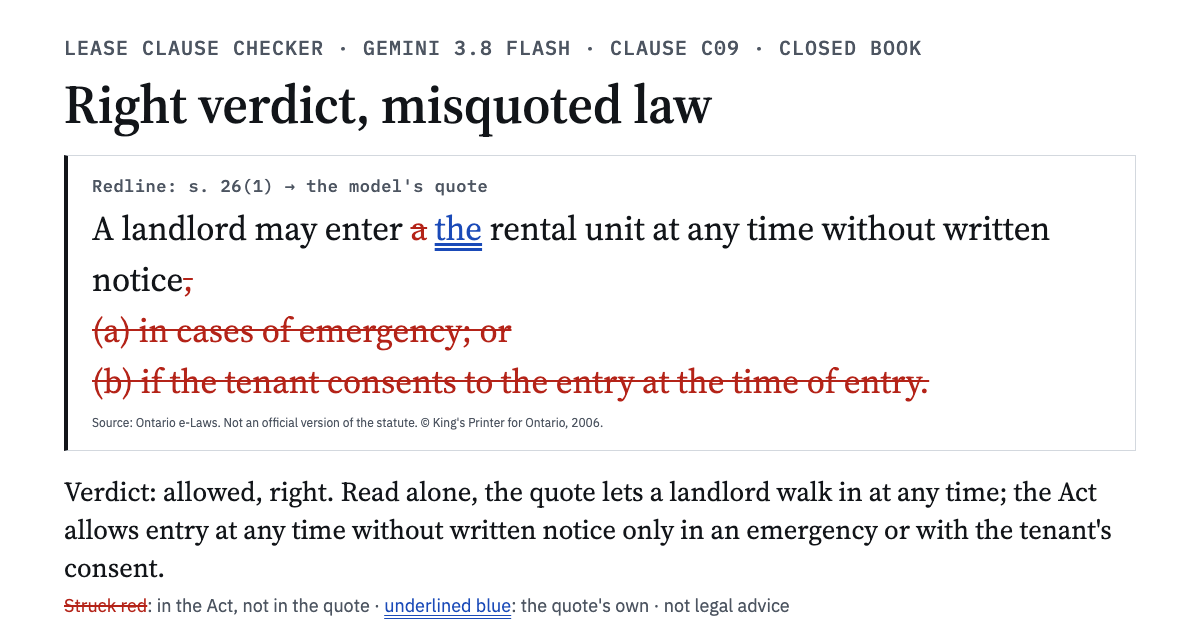
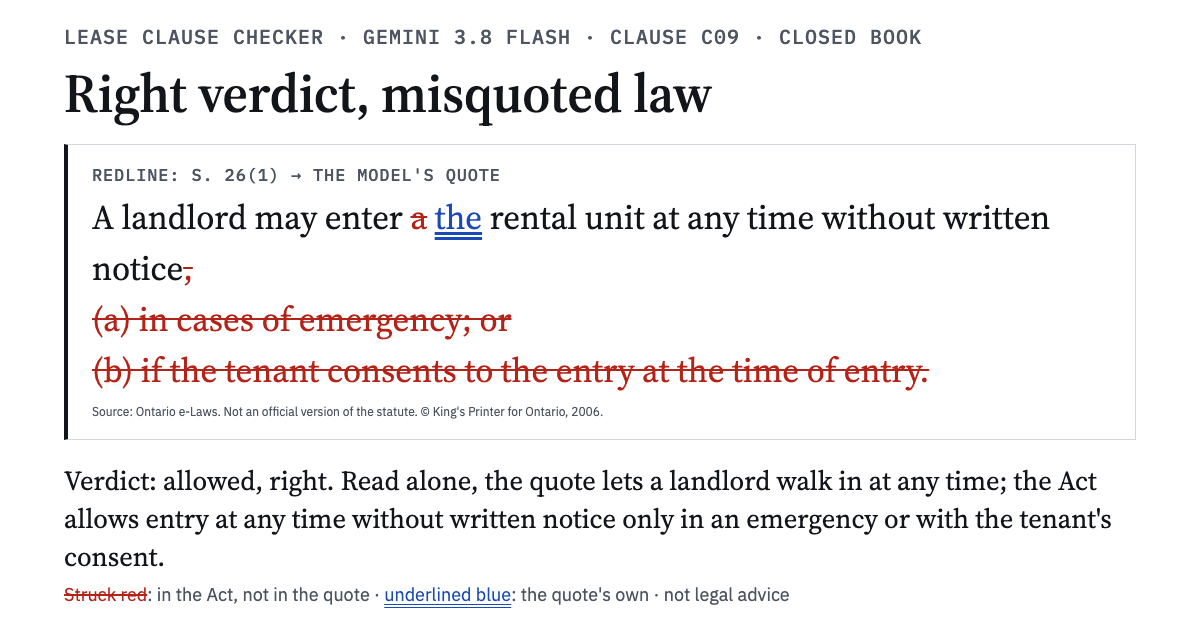
Fix the explorer's design-review findings
- The lead exhibit sits beside its clause on wide screens and the story
  view's title is smaller, so the c09 punchline is on a 1440x790 laptop's
  first screen; the two cards share rows, so their Act boxes start level.
- Folds fade, then the quote box animates to its new height, so the page
  no longer jumps word by word; exhibits that come into view together play
  one after the other.
- The status line shows a long drop's first and last words, with the full
  text for screen readers; the space before an added word isn't underlined.
- A note under the exhibits says they are 3 of the 10 quotes the hand check
  found would mislead (with the split by model), chosen by the author, and
  that the edits are computed from the diff; legend and notice once there.
- 44-pixel tap targets on phones, tab-strip fades on both edges, the title
  as a quiet line on the other views, the hand check's intro before its
  method, a visible tag on c26's item (b) in dark mode, and og.png
  re-centred.

diff --git a/src/lease_clause_checker/explorer_assets/explorer.css b/src/lease_clause_checker/explorer_assets/explorer.css
@@ -14,7 +14,6 @@
   --insert-wash: #e8eefb;
   --ok: #17663a;
   --track: #e3e6ea;
-  --tag-wash: #eef0f3;
 
   --serif: "Source Serif 4", "Source Serif Pro", Georgia, "Times New Roman", serif;
   --sans: "IBM Plex Sans", system-ui, -apple-system, "Segoe UI", Roboto, Arial, sans-serif;
@@ -27,13 +26,13 @@
   :root:not([data-theme="light"]) {
     --paper: #0e1114; --sheet: #171b20; --ink: #e8eaed; --graphite: #a7afba; --rule: #2d343d;
     --strike: #ff8e84; --strike-wash: #3a1d1b; --insert: #93b4ff; --insert-wash: #1a2540;
-    --ok: #74d39c; --track: #2a3038; --tag-wash: #222830;
+    --ok: #74d39c; --track: #2a3038;
   }
 }
 :root[data-theme="dark"] {
   --paper: #0e1114; --sheet: #171b20; --ink: #e8eaed; --graphite: #a7afba; --rule: #2d343d;
   --strike: #ff8e84; --strike-wash: #3a1d1b; --insert: #93b4ff; --insert-wash: #1a2540;
-  --ok: #74d39c; --track: #2a3038; --tag-wash: #222830;
+  --ok: #74d39c; --track: #2a3038;
 }
 
 * { box-sizing: border-box; }
@@ -68,6 +67,7 @@ main:focus { outline: none; }
   .brand { min-height: 48px; }
   .tabs { padding-right: var(--s5); }
   .tabs.overflows { mask-image: linear-gradient(to right, #000 85%, transparent); }
+  .tabs.overflows.scrolled { mask-image: linear-gradient(to right, transparent, #000 32px, #000 85%, transparent); }
   .tabs a { min-height: 44px; }
 }
 .notice-bar { border-bottom: 1px solid var(--rule); font-size: 13px; color: var(--graphite); }
@@ -78,14 +78,19 @@ main:focus { outline: none; }
 .hero { padding-top: var(--s6); padding-bottom: var(--s5); }
 h1 { margin: 0; font: 600 clamp(38px, 5.4vw, 60px)/1.04 var(--serif); letter-spacing: -0.015em; }
 .lede { margin: var(--s3) 0 0; max-width: 72ch; font-size: 18px; line-height: 1.55; color: var(--graphite); }
-body:not([data-view="story"]) .hero { padding-top: var(--s5); padding-bottom: var(--s2); }
-body:not([data-view="story"]) .hero h1 { font-size: 30px; }
+body[data-view="story"] .hero { padding-top: var(--s5); padding-bottom: var(--s4); }
+body[data-view="story"] h1 { font-size: clamp(36px, 4.2vw, 54px); }
+/* On the other views the title is a quiet line, so the view's own heading leads. */
+body:not([data-view="story"]) .hero { padding-top: var(--s4); padding-bottom: 0; }
+body:not([data-view="story"]) .hero h1 { font: 500 12px/1.4 var(--mono); letter-spacing: 0.06em; text-transform: uppercase; color: var(--graphite); }
 body:not([data-view="story"]) .hero .lede, body:not([data-view="story"]) .hero .eyebrow { display: none; }
 @media (max-width: 600px) {
   .hero { padding-top: var(--s5); padding-bottom: var(--s4); }
   .lede { font-size: 16px; }
   .eyebrow { font-size: 11px; }
-  body:not([data-view="story"]) .hero h1 { font-size: 24px; }
+  body[data-view="story"] .hero { padding-top: var(--s4); padding-bottom: var(--s3); }
+  body[data-view="story"] h1 { font-size: 34px; }
+  .lede { font-size: 15px; line-height: 1.5; }
 }
 
 main.wrap { padding-bottom: var(--s7); }
@@ -96,11 +101,20 @@ h3 { margin: var(--s6) 0 var(--s2); font: 600 20px/1.3 var(--serif); }
 .intro { max-width: 72ch; color: var(--graphite); margin: 0 0 var(--s4); }
 
 /* ---- Exhibits: the clause, the Act, what the model quoted, and the punchline ---- */
-.exhibits { display: grid; grid-template-columns: repeat(2, minmax(0, 1fr)); gap: var(--s7) var(--s6); padding: var(--s2) 0 var(--s8); }
+.exhibits { display: grid; grid-template-columns: repeat(2, minmax(0, 1fr)); gap: var(--s7) var(--s6); padding: 0 0 var(--s5); }
 .exhibits > .exhibit.lead { grid-column: 1 / -1; }
-@media (max-width: 980px) { .exhibits { grid-template-columns: 1fr; gap: var(--s7); padding-bottom: var(--s7); } }
 .exhibit { min-width: 0; }
-.exhibit.lead { max-width: 980px; }
+/* The two cards share rows, so their Act boxes start level. */
+.exhibit:not(.lead) { display: grid; grid-row: span 2; grid-template-rows: subgrid; row-gap: 0; }
+@media (max-width: 980px) {
+  .exhibits { grid-template-columns: 1fr; gap: var(--s7); }
+  .exhibit:not(.lead) { display: block; }
+}
+/* The lead exhibit on a wide screen: the clause and verdict beside the Act and the quote. */
+@media (min-width: 1100px) {
+  .exhibit.lead { display: grid; grid-template-columns: minmax(0, 4fr) minmax(0, 7fr); gap: var(--s7); align-items: start; }
+  .exhibit.lead .exhibit-text { padding-top: var(--s2); }
+}
 .exhibit .label { margin-bottom: var(--s2); }
 .exhibit h2 { margin: 0 0 var(--s3); font-size: 22px; }
 .exhibit.lead h2 { font-size: 30px; }
@@ -108,6 +122,7 @@ h3 { margin: var(--s6) 0 var(--s2); font: 600 20px/1.3 var(--serif); }
 .clause { margin: 0 0 var(--s3); padding: var(--s2) 0 var(--s2) var(--s4); border-left: 3px solid var(--ink); font-size: 17px; line-height: 1.5; }
 .exhibit.lead .clause { font-size: 18px; }
 .verdict-line { margin: 0 0 var(--s4); font-size: 15px; }
+.verdict-line .tag { margin-left: 8px; }
 .verdict-line b { font-weight: 600; }
 .tag { display: inline-block; margin-left: 6px; padding: 0 7px; font: 600 11px/1.7 var(--mono); letter-spacing: 0.05em; text-transform: uppercase; border: 1.5px solid currentColor; border-radius: 2px; vertical-align: 1px; white-space: nowrap; }
 .tag.ok { color: var(--ok); }
@@ -117,42 +132,52 @@ h3 { margin: var(--s6) 0 var(--s2); font: 600 20px/1.3 var(--serif); }
 .box + .box { border-top: 0; }
 .box figcaption { display: flex; justify-content: space-between; gap: var(--s3); flex-wrap: wrap; padding: var(--s2) var(--s4); border-bottom: 1px solid var(--rule); font: 500 12px/1.5 var(--mono); letter-spacing: 0.04em; text-transform: uppercase; color: var(--graphite); }
 .box figcaption b { color: var(--ink); font-weight: 500; }
+.box figcaption .heading { font: 400 13px/1.5 var(--sans); letter-spacing: 0; text-transform: none; }
 .box .statute { padding: var(--s3) var(--s4) var(--s4); }
 .box.quote { border-left: 3px solid var(--insert); }
 .box .notice { padding: 0 var(--s4) var(--s3); margin: 0; }
-.statute { margin: 0; font: 400 19px/1.7 var(--serif); overflow-wrap: anywhere; }
+.statute { margin: 0; font: 400 19px/1.6 var(--serif); overflow-wrap: anywhere; }
 .exhibit:not(.lead) .statute { font-size: 17px; }
 @media (max-width: 600px) { .statute, .exhibit:not(.lead) .statute { font-size: 17px; line-height: 1.65; } }
 
 /* In the Act box: the words each edit drops, marked as it drops them, and a tagged item. */
 .act-box .tok { transition: color 0.3s, background-color 0.3s; }
 .act-box .tok.lost { color: var(--strike); background: var(--strike-wash); text-decoration: line-through 1.5px var(--strike); }
-.act-box .tok.tagged { background: var(--tag-wash); }
-.act-box .tok.tagged.lost { background: var(--strike-wash); }
+.act-box .tok.tagged { text-decoration: underline dotted var(--graphite); text-underline-offset: 5px; }
+.act-box .tok.tagged.lost { text-decoration: line-through 1.5px var(--strike); }
 .lost-key { color: var(--strike); background: var(--strike-wash); padding: 0 2px; }
 .item-tag { display: inline-block; margin: 0 6px 0 0; padding: 0 6px; font: 500 11px/1.7 var(--mono); letter-spacing: 0.04em; text-transform: uppercase; color: var(--ink); border: 1px solid var(--ink); border-radius: 2px; vertical-align: 2px; }
 
 /* In the quote box: each edit's dropped words strike through, then fold away; its added words
    type in. */
-.quote-box del, .quote-box ins { transition: font-size 0.45s ease, opacity 0.35s ease, color 0.25s; }
+.quote-box del, .quote-box ins { transition: opacity 0.35s ease, color 0.25s; }
 .quote-box .statute del { text-decoration: none; color: inherit; }
 .quote-box .statute del.striking { color: var(--strike); text-decoration: line-through 1.5px var(--strike); }
-.quote-box .statute del.folding { font-size: 0; opacity: 0; }
+.quote-box .statute del.fading { opacity: 0; }
+.quote-box .statute { overflow: hidden; }
 .quote-box .statute del.gone { display: none; }
 .quote-box .statute ins { color: var(--insert); text-decoration: underline double var(--insert); text-decoration-skip-ink: none; text-underline-offset: 4px; }
 .quote-box .statute ins:empty { display: none; }
 .quote-box .statute ins.typing::after { content: ""; display: inline-block; width: 1px; height: 1em; margin-left: 1px; background: var(--insert); vertical-align: -0.15em; }
 /* The space before a dropped word goes with it, but is not struck through. */
 .quote-box .sp { display: inline-block; white-space: pre; }
-.replay-bar { display: flex; flex-wrap: wrap; align-items: center; gap: var(--s2) var(--s3); margin: var(--s3) 0 0; }
+.replay-bar { display: flex; flex-wrap: wrap; align-items: flex-start; gap: var(--s2) var(--s3); margin: var(--s3) 0 0; }
 .replay-bar button { min-height: 36px; padding: 0 var(--s3); font: 500 13px/1 var(--sans); color: var(--ink); background: var(--sheet); border: 1px solid var(--ink); border-radius: 2px; cursor: pointer; }
 .replay-bar button:hover { background: var(--ink); color: var(--sheet); }
 .replay-bar button:disabled { opacity: 0.45; cursor: default; background: var(--sheet); color: var(--ink); }
-.replay-status { flex: 1 1 16em; margin: 0; font: 400 13px/1.45 var(--mono); color: var(--graphite); min-height: 1.45em; }
+.replay-status { flex: 1 1 16em; margin: 0; padding-top: 9px; font: 400 13px/1.45 var(--mono); color: var(--graphite); min-height: 1.45em; }
 .punchline { margin: var(--s4) 0 0; padding: var(--s3) 0 0; border-top: 2px solid var(--ink); font: 400 19px/1.5 var(--serif); transition: opacity 0.6s ease; }
 .exhibit:not(.lead) .punchline { font-size: 17px; }
 .punchline.waiting { opacity: 0; }
 .more { margin: var(--s3) 0 0; font-size: 14px; display: flex; flex-wrap: wrap; gap: var(--s2) var(--s5); }
+.exhibits-note { margin: 0 0 var(--s8); max-width: 90ch; font-size: 14px; color: var(--graphite); }
+@media (max-width: 600px) { .exhibits-note { margin-bottom: var(--s7); } }
+/* Phone: tap targets at least 44 pixels high. */
+@media (max-width: 600px) {
+  .replay-bar button { min-height: 44px; }
+  .replay-status { padding-top: 12px; }
+  .more a, .notice-bar a, .method a, .exhibits-note a { display: inline-block; padding-block: 11px; }
+}
 @media (prefers-reduced-motion: reduce) {
   .quote-box del, .quote-box ins, .act-box .tok, .punchline { transition: none; }
 }
@@ -195,6 +220,7 @@ table.numbers { width: 100%; border-collapse: collapse; font-size: 15px; font-va
   .numbers tbody tr:first-child { border-top: 2px solid var(--ink); }
   .numbers tbody th, .numbers tbody td { display: block; border: 0 !important; padding: 6px 10px; }
   .numbers tbody th { grid-column: 1 / -1; padding-left: 0; font-size: 16px; padding-bottom: var(--s2); }
+  .numbers tbody td:not(.closed-col) { padding-left: 0; }
   .numbers tbody td::before { content: attr(data-label); display: block; font: 500 11px/1.4 var(--mono); letter-spacing: 0.04em; text-transform: uppercase; color: var(--graphite); }
   .numbers tbody td.closed-col::before { color: var(--strike); }
   .bar { max-width: none; }
@@ -217,6 +243,8 @@ table.numbers { width: 100%; border-collapse: collapse; font-size: 15px; font-va
   .funnel li:nth-child(even) { padding-left: var(--s3); }
   .funnel b { font-size: 30px; }
 }
+.hand-method { margin-top: var(--s5); }
+.hand-method + .hand-method { margin-top: var(--s3); }
 .method { margin: var(--s4) 0 0; font-size: 14px; line-height: 1.6; color: var(--graphite); max-width: 72ch; }
 .method strong { color: var(--ink); font-weight: 600; }
 
@@ -346,11 +374,11 @@ body[data-view="story"] .site-footer .caveats { display: none; }
 /* ---- The preview image (#/card): 1200 by 630 ---- */
 body.card-mode .masthead, body.card-mode .notice-bar, body.card-mode .hero, body.card-mode .site-footer { display: none; }
 body.card-mode { background: var(--sheet); }
-body.card-mode main { max-width: 1200px; height: 630px; overflow: hidden; padding: 34px 64px; }
+body.card-mode main { max-width: 1200px; height: 630px; overflow: hidden; padding: 30px 64px; display: flex; flex-direction: column; justify-content: center; }
 body.card-mode .card-eyebrow { margin: 0 0 14px; font: 500 20px/1.4 var(--mono); letter-spacing: 0.05em; text-transform: uppercase; color: var(--graphite); }
 body.card-mode .card-title { margin: 0 0 22px; font: 600 54px/1.05 var(--serif); }
 body.card-mode .redline { border-left-width: 4px; padding: 18px 24px; }
-body.card-mode .redline-title { font-size: 17px; }
+body.card-mode .redline-title { font-size: 17px; text-transform: uppercase; letter-spacing: 0.05em; }
 body.card-mode .statute { font-size: 34px; line-height: 1.5; }
 body.card-mode .card-foot { margin: 22px 0 0; font: 400 27px/1.4 var(--serif); }
 body.card-mode .card-foot .small { display: block; margin-top: 6px; font: 400 18px/1.4 var(--sans); color: var(--graphite); }

diff --git a/src/lease_clause_checker/explorer_assets/explorer.js b/src/lease_clause_checker/explorer_assets/explorer.js
@@ -367,7 +367,10 @@ function tableBox(table, label) {
 }
 
 function markOverflow() {
-  for (const strip of document.querySelectorAll(".tabs")) strip.classList.toggle("overflows", strip.scrollWidth > strip.clientWidth + 1);
+  for (const strip of document.querySelectorAll(".tabs")) {
+    strip.classList.toggle("overflows", strip.scrollWidth > strip.clientWidth + 1);
+    strip.classList.toggle("scrolled", strip.scrollLeft > 4);
+  }
   for (const box of document.querySelectorAll(".table-box")) {
     const wrap = box.querySelector(".table-wrap");
     box.classList.toggle("overflows", wrap.scrollWidth > wrap.clientWidth + 1);
@@ -403,6 +406,14 @@ function tokenNodes(tokens, first, unstruck = false) {
     out.push(text);
   });
   return out;
+}
+
+// An edit's words cut to their first five and last three if long, for the status line.
+function shortened(said) {
+  return said.replace(/\u2018([^\u2019]*)\u2019/g, (whole, words) => {
+    const list = words.split(" ");
+    return list.length > 10 ? `\u2018${list.slice(0, 5).join(" ")} … ${list.slice(-3).join(" ")}\u2019` : whole;
+  });
 }
 
 function tokenText(tokens, first) {
@@ -462,8 +473,11 @@ class Player {
       const edit = this.edits[a];
       edit.del = el("del", {}, edit.drop ? tokenNodes(this.act.slice(edit.drop[0], edit.drop[1]), j === 0, true) : []);
       edit.ins = el("ins");
-      edit.full = edit.add ? tokenText(quote.slice(edit.add[0], edit.add[1]), edit.add[0] === 0) : "";
-      p.append(edit.del, edit.ins);
+      const added = edit.add ? tokenText(quote.slice(edit.add[0], edit.add[1]), edit.add[0] === 0) : "";
+      edit.full = added.trimStart();
+      // The space before added words is not underlined; it shows only with them.
+      edit.space = el("span", { hidden: true }, added === edit.full ? "" : " ");
+      p.append(edit.del, edit.space, edit.ins);
     });
     return p;
   }
@@ -483,14 +497,19 @@ class Player {
     const edit = this.edits[k];
     edit.del.className = done ? "gone" : "";
     edit.ins.textContent = done ? edit.full : "";
+    edit.space.hidden = !done;
     edit.ins.classList.remove("typing");
     for (const span of edit.lost) span.classList.toggle("lost", done);
   }
 
   say(k) {
     const n = this.edits.length;
-    this.status.textContent =
-      k < 0 ? `${n} edits turn the Act's words into the quote.` : k >= n ? `All ${n} edits made: the box now holds the quote, word for word.` : `Edit ${k + 1} of ${n}: ${this.edits[k].said}`;
+    if (k < 0 || k >= n) {
+      this.status.textContent = k < 0 ? `${n} edits turn the Act's words into the quote.` : `All ${n} edits made: the box now holds the quote, word for word.`;
+      return;
+    }
+    const said = this.edits[k].said;
+    this.status.replaceChildren(el("span", { "aria-hidden": "true" }, `Edit ${k + 1} of ${n}: ${shortened(said)}`), sr(`Edit ${k + 1} of ${n}: ${said}`));
   }
 
   render(pos) {
@@ -515,11 +534,18 @@ class Player {
     if (edit.drop) {
       edit.del.className = "striking";
       await this.wait(800, run);
-      edit.del.className = "striking folding";
-      await this.wait(450, run);
+      edit.del.className = "striking fading";
+      await this.wait(350, run);
+      const before = this.quoteBox.offsetHeight;
       edit.del.className = "gone";
+      const after = this.quoteBox.offsetHeight;
+      if (before !== after) {
+        this.quoteBox.animate([{ height: `${before}px` }, { height: `${after}px` }], { duration: 400, easing: "ease-out" });
+        await this.wait(400, run);
+      }
     }
     if (edit.full) {
+      edit.space.hidden = false;
       edit.ins.classList.add("typing");
       const step = Math.min(45, 900 / edit.full.length);
       for (let i = 1; i <= edit.full.length; i++) {
@@ -584,22 +610,29 @@ function exhibitArticle(ex, n, lead) {
   const article = el(
     "article",
     { class: lead ? "exhibit lead" : "exhibit", "aria-labelledby": `exhibit-${n}` },
-    el("p", { class: "label" }, `Exhibit ${n} · `, el("b", {}, model.name), ` · clause ${clause.id} · closed book`),
-    el("h2", { id: `exhibit-${n}`, tabindex: "-1" }, ex.label),
-    el("blockquote", { class: "clause" }, `“${clause.text}”`),
-    el("p", { class: "verdict-line" }, `${who}'s verdict: `, el("b", {}, ex.verdict), ", ", el("span", { class: "right" }, "right")),
-    el("figure", { class: "box act-box" }, el("figcaption", {}, el("b", {}, `The Act, ${where}`), el("span", {}, DATA.act.sections[alignment.section].heading)), player.actBox),
-    el("figure", { class: "box quote quote-box" }, el("figcaption", {}, el("b", {}, `What ${who} quoted`), el("span", {}, "from memory")), player.quoteBox),
     el(
       "div",
-      { class: "replay-bar" },
-      el("button", { type: "button", class: "replay" }, "Replay"),
-      el("button", { type: "button", class: "next", "aria-keyshortcuts": "ArrowRight" }, "Next change"),
-      el("p", { class: "replay-status", "aria-live": "polite" }),
+      { class: "exhibit-text" },
+      el("p", { class: "label" }, `Exhibit ${n} · `, el("b", {}, model.name), ` · clause ${clause.id} · closed book`),
+      el("h2", { id: `exhibit-${n}`, tabindex: "-1" }, ex.label),
+      el("blockquote", { class: "clause" }, `“${clause.text}”`),
+      el("p", { class: "verdict-line" }, `${who}'s verdict: `, el("b", {}, ex.verdict), ",", el("span", { class: "tag ok" }, "right")),
     ),
-    el("p", { class: "punchline waiting" }, ex.punchline),
-    el("p", { class: "notice" }, "In the Act, ", el("span", { class: "lost-key" }, "red"), " marks the words the quote leaves out; in the quote, ", el("ins", {}, "blue"), " words are its own. ", DATA.notice),
-    el("p", { class: "more" }, el("a", { href: `#/closed/${ex.clause}/${ex.model}` }, "This answer in the grid"), el("a", { href: `#/exhibit/${ex.model}` }, `${model.name}'s other misquotes`)),
+    el(
+      "div",
+      { class: "exhibit-boxes" },
+      el("figure", { class: "box act-box" }, el("figcaption", {}, el("b", {}, `The Act, ${where}`), el("span", { class: "heading" }, DATA.act.sections[alignment.section].heading)), player.actBox),
+      el("figure", { class: "box quote quote-box" }, el("figcaption", {}, el("b", {}, `What ${who} quoted`), el("span", {}, "from memory")), player.quoteBox),
+      el(
+        "div",
+        { class: "replay-bar" },
+        el("button", { type: "button", class: "replay" }, "Replay"),
+        el("button", { type: "button", class: "next", "aria-keyshortcuts": "ArrowRight" }, "Next change"),
+        el("p", { class: "replay-status", "aria-live": "polite" }),
+      ),
+      el("p", { class: "punchline waiting" }, ex.punchline),
+      el("p", { class: "more" }, el("a", { href: `#/closed/${ex.clause}/${ex.model}` }, "This answer in the grid"), el("a", { href: `#/exhibit/${ex.model}` }, `${model.name}'s other misquotes`)),
+    ),
   );
   player.attach(article);
   PLAYERS.push(player);
@@ -611,15 +644,27 @@ function exhibitArticle(ex, n, lead) {
 function watchExhibits() {
   const seen = new Map();
   const ratios = new Map();
+  // Exhibits that come into view together play one after the other, not at once.
+  const queue = [];
+  let busy = false;
+  const playNext = async () => {
+    if (busy || !queue.length) return;
+    busy = true;
+    const player = queue.shift();
+    await player.play();
+    busy = false;
+    if (PLAYERS.includes(player)) playNext();
+  };
   const once = new IntersectionObserver(
     (entries) => {
       for (const entry of entries) {
         const player = PLAYERS.find((p) => p.quoteBox === entry.target);
         if (entry.isIntersecting && player && !seen.has(player)) {
           seen.set(player, true);
-          if (!REDUCED.matches) player.play();
+          if (!REDUCED.matches) queue.push(player);
         }
       }
+      playNext();
     },
     { threshold: 0.6 },
   );
@@ -717,8 +762,21 @@ function storyView() {
   const hand = DATA.hand_check;
   const sum = (key) => story.rows.reduce((total, row) => total + row[key], 0);
   const exhibits = story.exhibits.map((ex, i) => exhibitArticle(ex, i + 1, i === 0).article);
+  const misleading = DATA.answers.filter((a) => a.method === "closedbook" && a.attempts[0].hand_check && a.attempts[0].hand_check.meaning_changed === "yes" && a.attempts[0].hand_check.misleads_here === "yes");
+  const split = DATA.models.map((m) => `${shortModel(m.name)} ${misleading.filter((a) => a.model === m.key).length}`).join(", ");
   return [
     el("section", { class: "exhibits", "aria-label": "Answers replayed as edits of the Act" }, exhibits),
+    el(
+      "p",
+      { class: "exhibits-note" },
+      `These are ${story.exhibits.length} of the ${misleading.length} closed-book quotes that the hand check found would mislead (${split}), chosen by the author; each came with a right verdict. `,
+      el("a", { href: "#/hand/misleads" }, `All ${misleading.length}`),
+      ". The edits are computed from the word-by-word difference between the Act's subsection and the quote: they show what differs, not how the model wrote it. In the Act, ",
+      el("span", { class: "lost-key" }, "red"),
+      " marks the words the quote leaves out; in the quote, ",
+      el("ins", {}, "blue"),
+      ` words are its own. ${DATA.notice}`,
+    ),
     el(
       "section",
       { class: "band", "aria-labelledby": "numbers-title" },
@@ -1035,13 +1093,13 @@ function handView(filter) {
   );
   return [
     heading(HEADINGS.hand),
-    hand ? el("p", { class: "method" }, el("b", {}, "How it was done. "), hand.method, " ", el("a", { href: hand.record }, "The full record"), ", ", el("a", { href: hand.csv }, "the CSV"), ".") : null,
-    hand ? el("p", { class: "method" }, hand.recheck) : null,
     el(
       "p",
       { class: "intro" },
       `For each of the ${hc.quotes} closed-book quotes that failed the word-for-word check: does it state a rule from the Act, does it change what the Act says, and would it mislead on the clause it was quoted for? Of the ${hc.quotes}, ${hc.rules} state a rule; ${hc.changes} of those change it, and ${hc.misleads} would mislead${hc.unsure ? ` (${hc.unsure} unsure)` : ""}; those rows are highlighted. Not legal advice, and not reviewed by a lawyer.`,
-    ),
+    ),    hand ? el("p", { class: "method hand-method" }, el("b", {}, "How it was done. "), hand.method, " ", el("a", { href: hand.record }, "The full record"), ", ", el("a", { href: hand.csv }, "the CSV"), ".") : null,
+    hand ? el("p", { class: "method" }, hand.recheck) : null,
+
     el(
       "nav",
       { class: "model-picker", "aria-label": "Filter" },
@@ -1161,6 +1219,7 @@ async function start() {
   window.addEventListener("hashchange", route);
   window.addEventListener("resize", markOverflow);
   document.addEventListener("keydown", onKey);
+  document.querySelector(".tabs").addEventListener("scroll", markOverflow, { passive: true });
   // The notice bar's link: the caveats in full, on this view or at the foot of the page.
   document.querySelector(".to-caveats").addEventListener("click", (event) => {
     event.preventDefault();

diff --git a/docs/details.md b/docs/details.md
@@ -263,7 +263,7 @@ subsection and replays the model's edits one at a time, in reading order: the dr
 strike through and fold away (and are marked in the Act's box), the added words type in. The
 edits come from the same alignment as the redline (`exhibits.replay`, from `Alignment.runs`),
 and the export stops unless they end at the saved quote, token for token. Each replay plays
-once when it comes into view; Replay plays it again, and Next change, or the right arrow key,
+once when it comes into view, one at a time; Replay plays it again, and Next change, or the right arrow key,
 steps one edit at a time (the left arrow steps back). With reduced motion the page shows the
 finished state. Then come the four-model table and the hand check's counts. Its other views:
 - **Misquotes**: the closed-book answers with a right verdict whose quote is not word for word,
